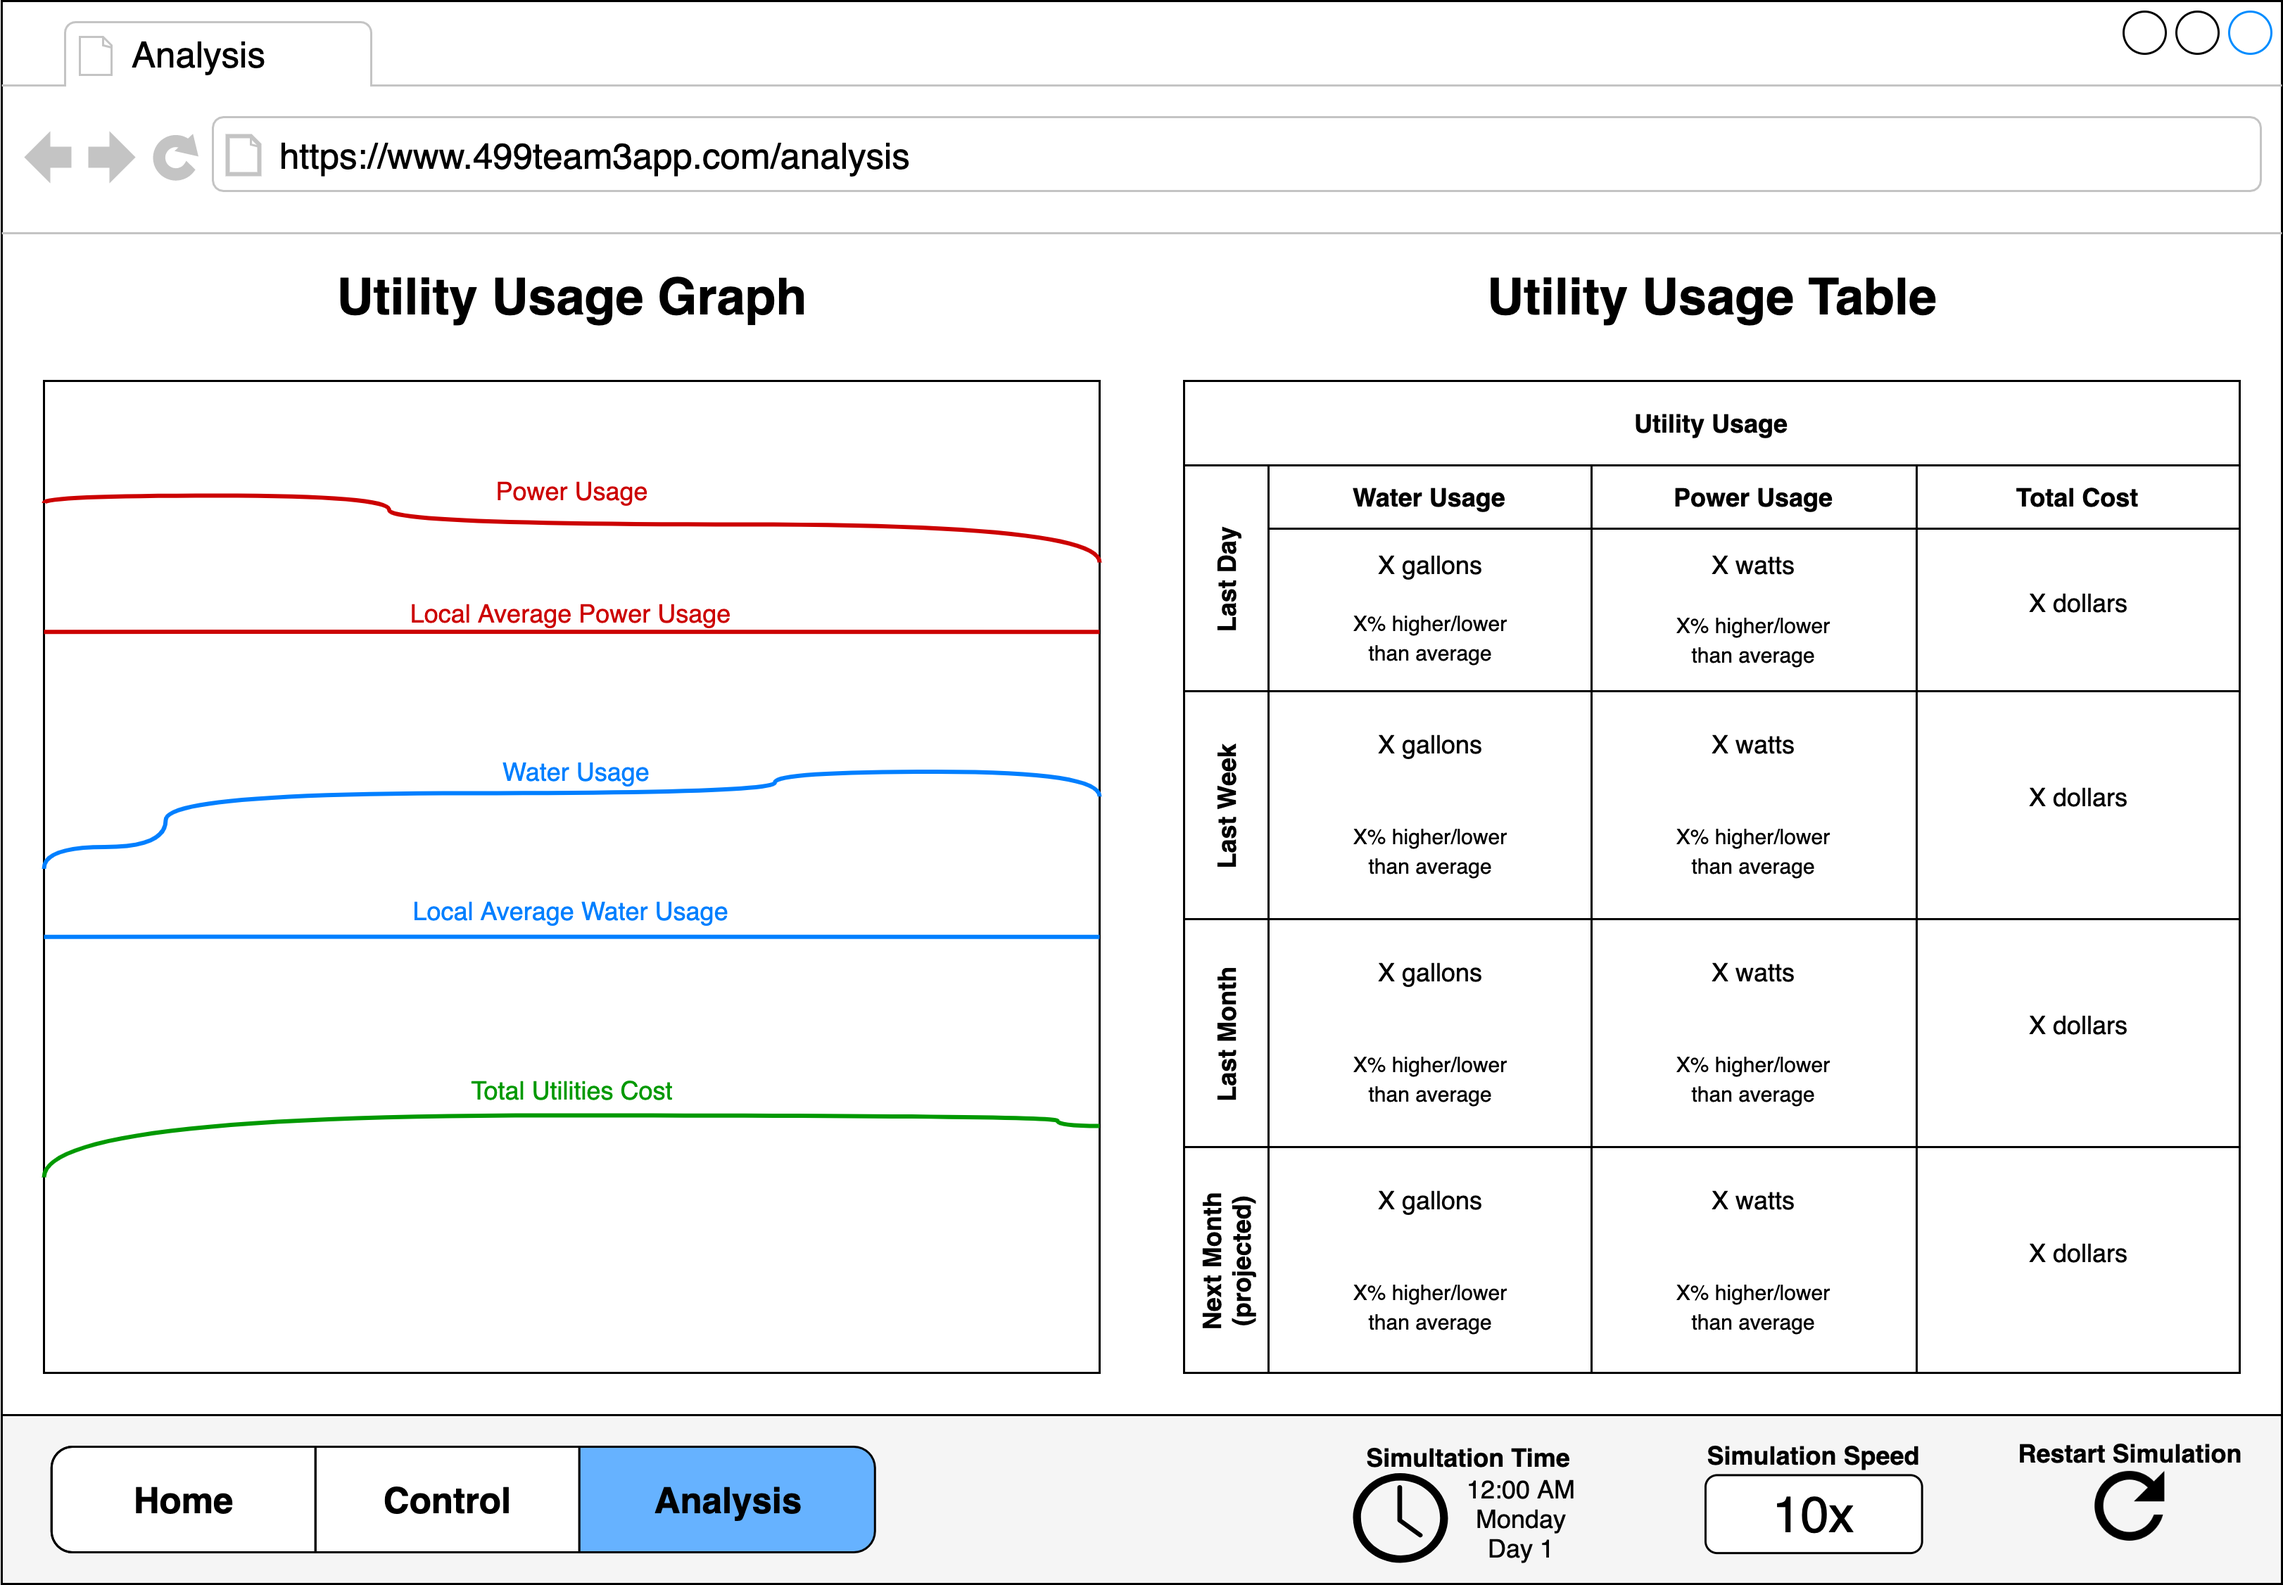
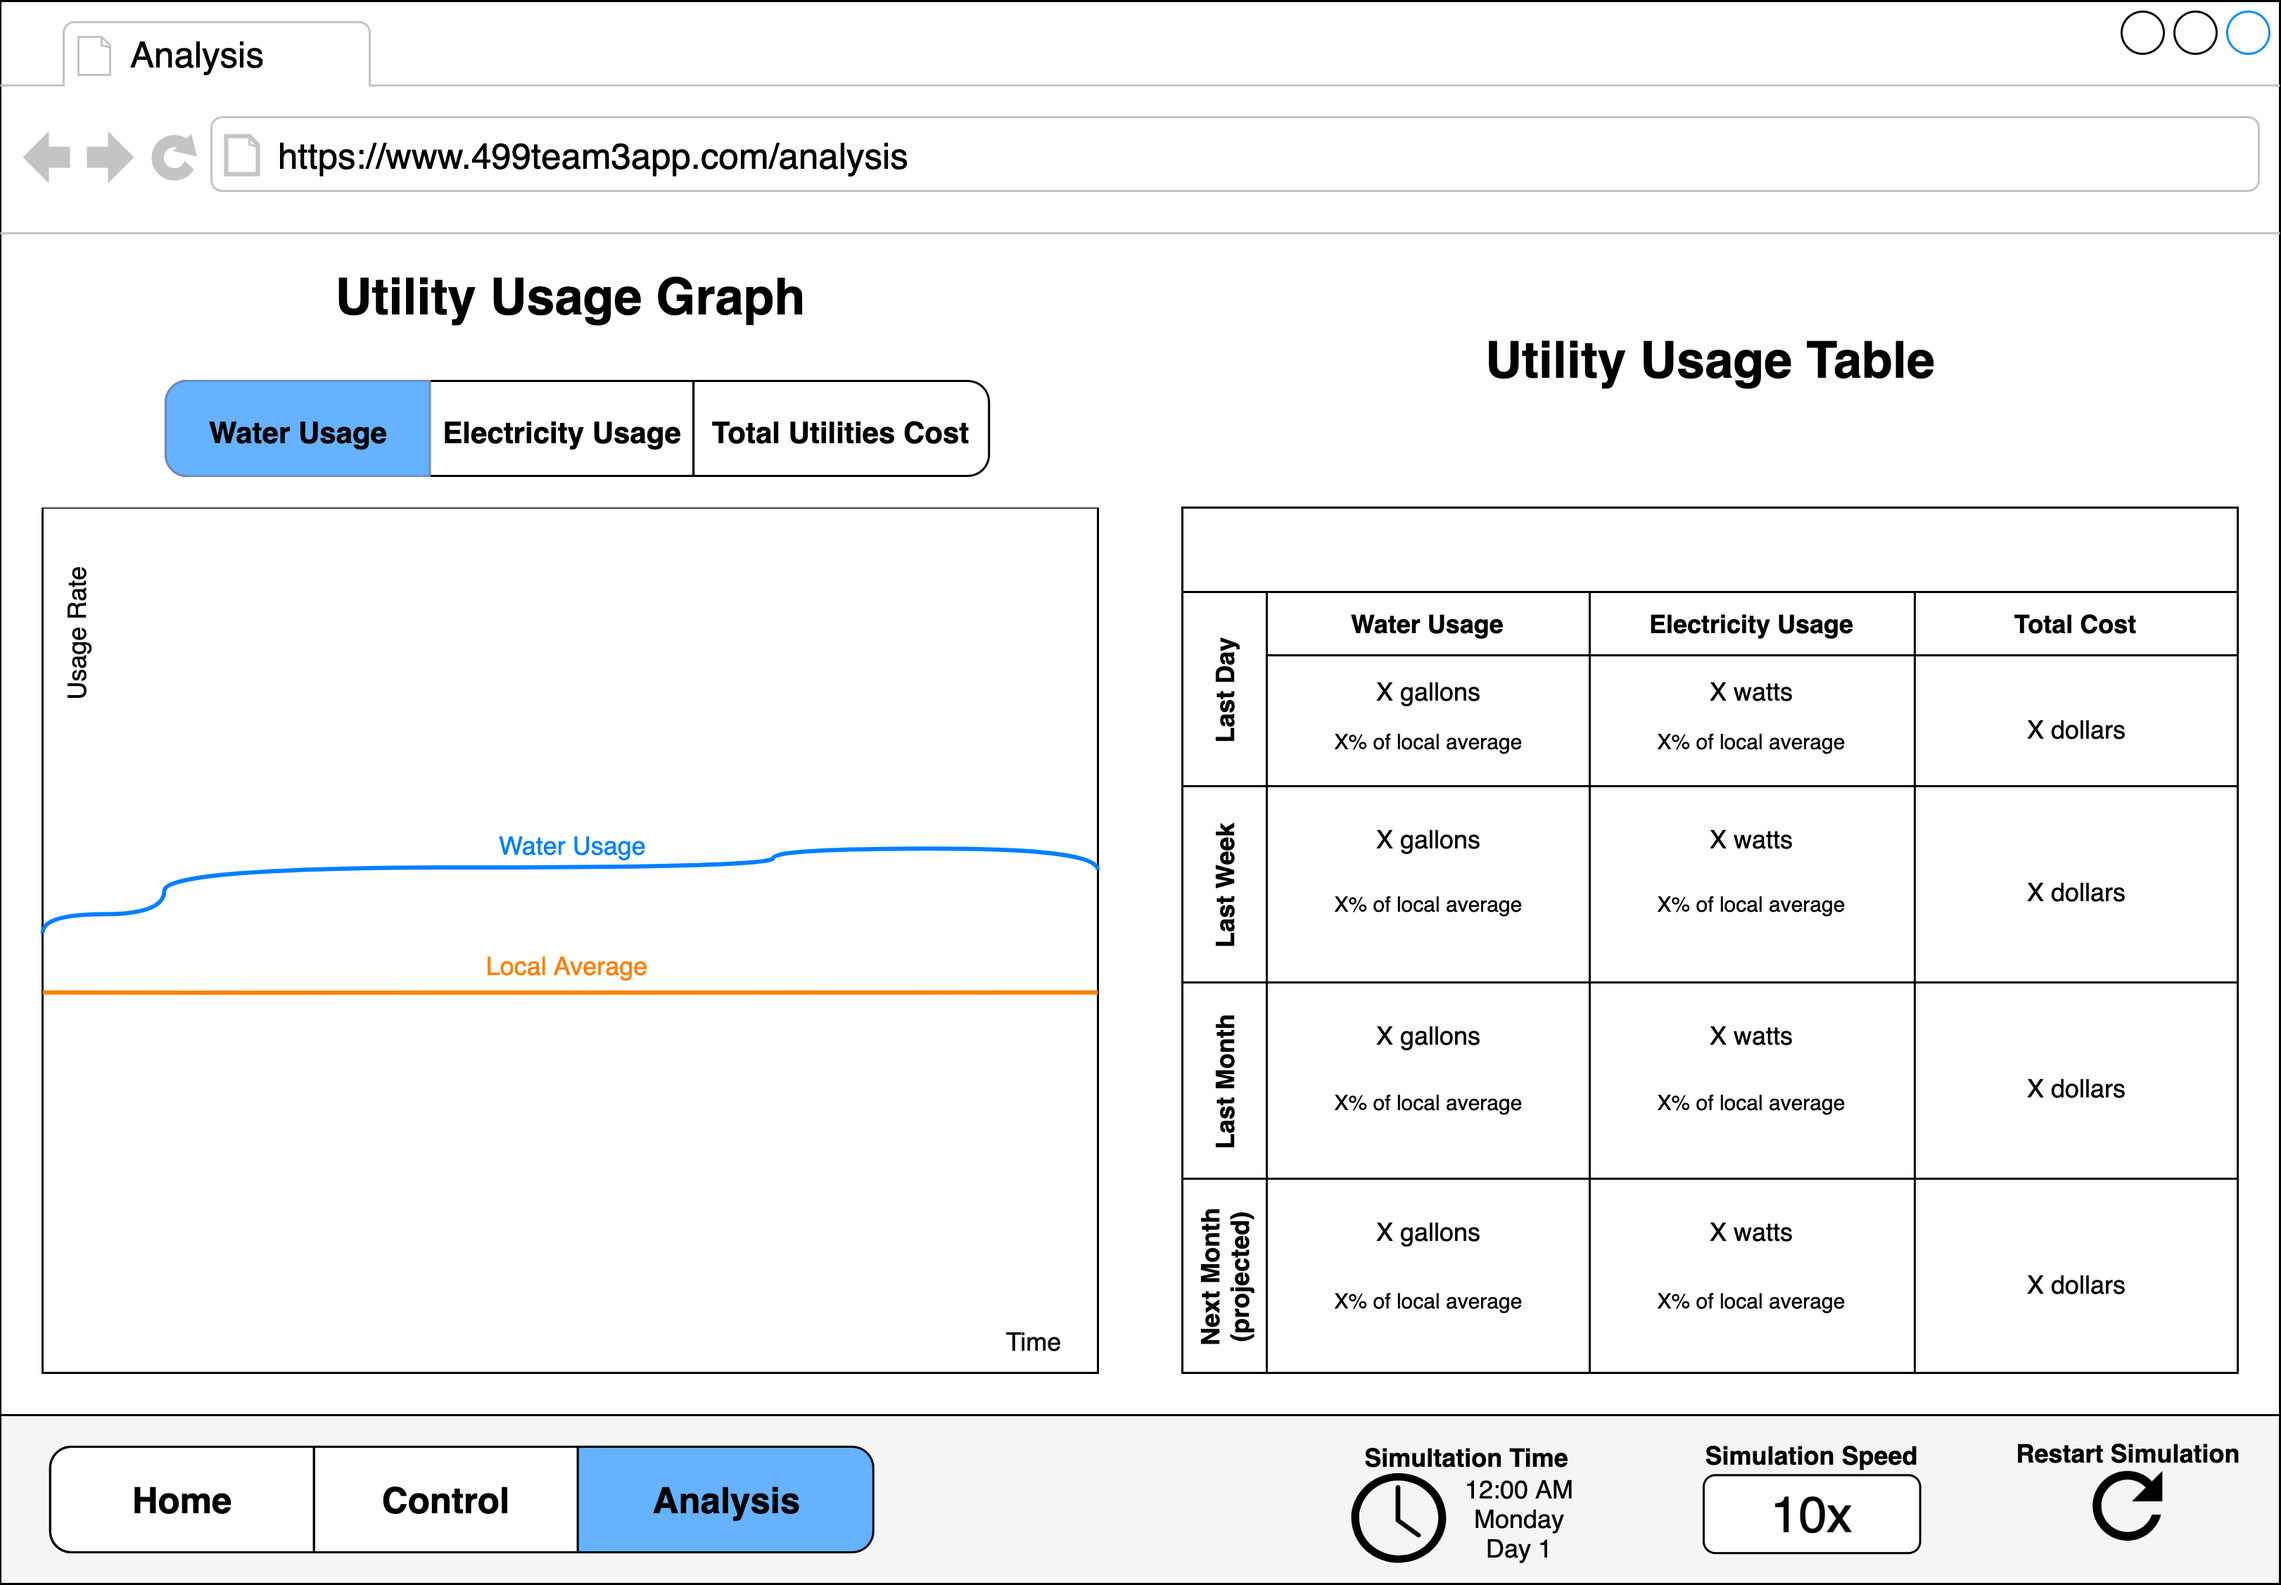
converge requirements with actual app appearence

diff --git a/app/src/components/AnalysisTable.tsx b/app/src/components/AnalysisTable.tsx
@@ -122,16 +122,16 @@ const AnalysisTable = (props: AnalysisTableProps) => {
       <thead>
         <tr>
           <th>
-            <h4>Timeframe</h4>
+            <h5>Timeframe</h5>
           </th>
           <th>
-            <h4>Water Usage</h4>
+            <h5>Water Usage</h5>
           </th>
           <th>
-            <h4>Power Usage</h4>
+            <h5>Electricity Usage</h5>
           </th>
           <th>
-            <h4>Total Cost</h4>
+            <h5>Total Cost</h5>
           </th>
         </tr>
       </thead>
@@ -153,7 +153,7 @@ const AnalysisTable = (props: AnalysisTableProps) => {
         />
         <UtilitiesDataRow
           days={30}
-          title="Next Month (Projected)"
+          title="Next Month (projected)"
           utilitiesData={utilitiesDataNextMonth}
         />
       </tbody>

diff --git a/app/src/common/constants.tsx b/app/src/common/constants.tsx
@@ -21,8 +21,8 @@ export const MIN_THERMOSTAT_TEMP = constants.MIN_THERMOSTAT_TEMP;
 export const MAX_THERMOSTAT_TEMP = constants.MAX_THERMOSTAT_TEMP;
 export const PUBLISH_ANALYSIS_INTERVAL = constants.PUBLISH_ANALYSIS_INTERVAL;
 
-export const LOCAL_AVG_GALLONS_PER_DAY = 25;
-export const LOCAL_AVG_WATTS_PER_DAY = 10000;
+export const LOCAL_AVG_GALLONS_PER_DAY = 100;
+export const LOCAL_AVG_WATTS_PER_DAY = 25000;
 export const ANALYSIS_PUBLICATIONS_PER_DAY =
   (24 * 60 * 60) / PUBLISH_ANALYSIS_INTERVAL;
 export const LOCAL_AVG_GALLONS_PER_PUBLISH_ANALYSIS_INTERVAL =

diff --git a/app/docs/requirements.md b/app/docs/requirements.md
@@ -86,28 +86,42 @@ This screen should contain controls that allow the user to:
 
 #### Utility Usage Graph
 
-This component should display a live-updated graph that includes the following data:
+This component should allow the user to view live-updated graphs of the smart home's utilities data, including the water usage rate, the electricity usage rate, and the total utilities cost rate.
 
-- the **local average water usage rate** as a horizontal line (related to the additional [utility usage comparison feature](#utility-usage-comparison))
-- the **local average power usage rate** as a horizontal line (related to the additional [utility usage comparison feature](#utility-usage-comparison))
+##### Water Usage
+
+This live-updated graph should display the following data:
+
 - the **water usage rate** trend from the start of the simulation to now
-- the **power usage rate** trend from the start of the simulation to now
+- the **local average water usage rate** as a horizontal line (related to the additional [utility usage comparison feature](#utility-usage-comparison))
+
+##### Electricity Usage
+
+This live-updated graph should display the following data:
+
+- the **electricity usage rate** trend from the start of the simulation to now
+- the **local average electricity usage rate** as a horizontal line (related to the additional [utility usage comparison feature](#utility-usage-comparison))
+
+##### Total Utilities Cost
+
+This live-updated graph should display the following data:
+
 - the **total utilities cost rate** trend from the start of the simulation to now
 
 #### Utility Usage Table
 
 This component should display a table like the following:
 
-|                        | Water Usage                          | Power Usage                        | Total Cost |
-| ---------------------- | ------------------------------------ | ---------------------------------- | ---------- |
-| Last Day               | gallons, % higher/lower than average | watts, % higher/lower than average | dollars    |
-| Last Week              | gallons, % higher/lower than average | watts, % higher/lower than average | dollars    |
-| Last Month             | gallons, % higher/lower than average | watts, % higher/lower than average | dollars    |
-| Next Month (projected) | gallons, % higher/lower than average | watts, % higher/lower than average | dollars    |
+|                        | Water Usage                 | Electricity usage         | Total Cost |
+| ---------------------- | --------------------------- | ------------------------- | ---------- |
+| Last Day               | gallons, % of local average | watts, % of local average | dollars    |
+| Last Week              | gallons, % of local average | watts, % of local average | dollars    |
+| Last Month             | gallons, % of local average | watts, % of local average | dollars    |
+| Next Month (projected) | gallons, % of local average | watts, % of local average | dollars    |
 
 Important details:
 
-- Cells for water and power usage should include percentages calculated with the additional [utility usage comparison feature](#utility-usage-comparison).
+- Cells for water and electricity usage should include percentages calculated with the additional [utility usage comparison feature](#utility-usage-comparison).
 - Projections for next month's utility usage should be calculated with the additional [advanced utility usage projection feature](#advanced-utility-usage-projection).
 
 ### All Screens
